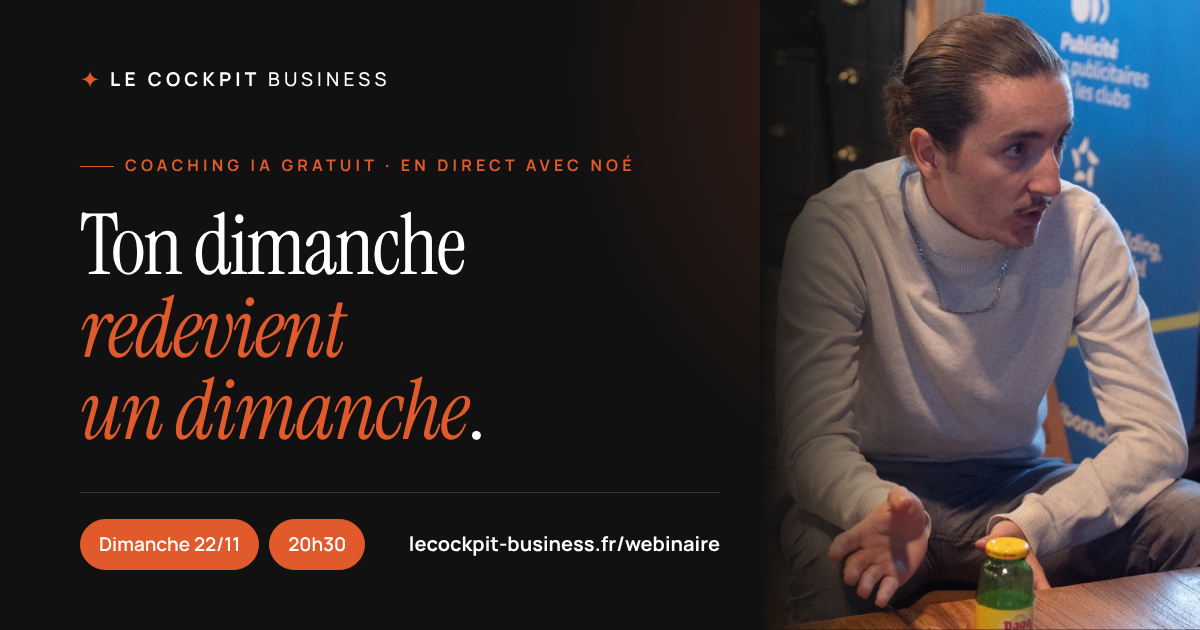
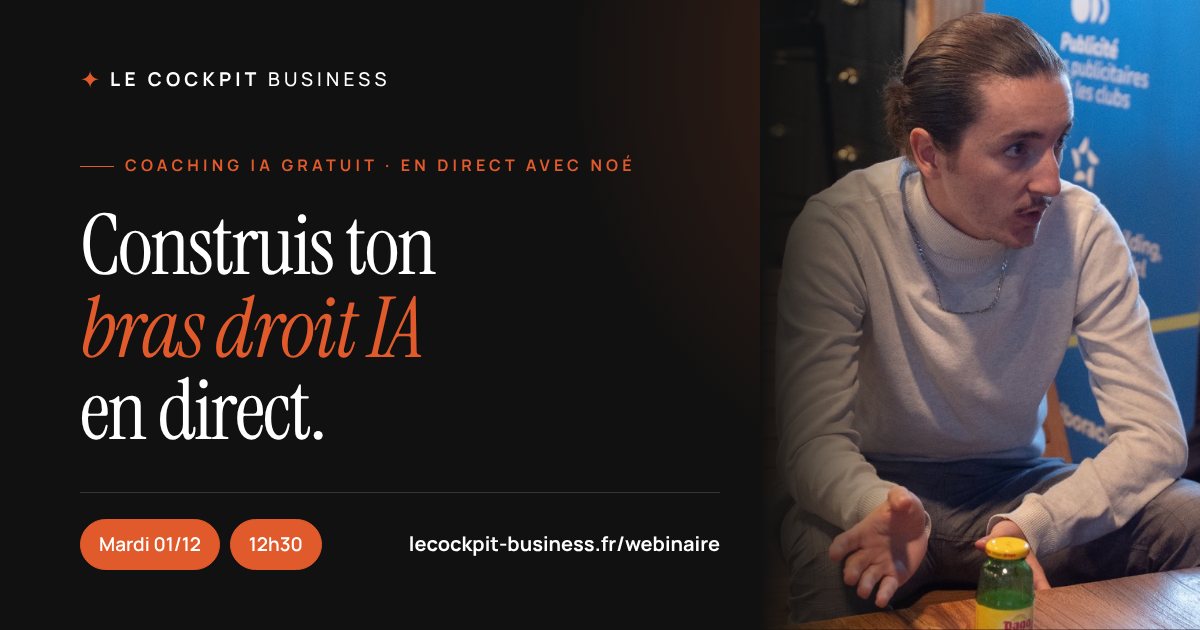
Page /webinaire : coaching « Comment construire ton bras droit IA » du mardi 01/12 12h30 (#12)
Claude-Session: https://claude.ai/code/session_0143ozB7tWALFU4F4GD4rqWe

Changed region(s): [[0.0617, 0.3317, 0.4008, 0.573], [0.0617, 0.6032, 0.4008, 0.7238], [0.0617, 0.8143, 0.3083, 0.9048]]

diff --git a/site/webinaire.html b/site/webinaire.html
@@ -3,8 +3,8 @@
 <head>
 <meta charset="utf-8">
 <meta name="viewport" content="width=device-width, initial-scale=1">
-<title>Ton dimanche redevient un dimanche · Coaching IA gratuit, dimanche 22 novembre à 20h30 · Le Cockpit Business</title>
-<meta name="description" content="Tu bosses le soir et le dimanche alors que tu paies l'IA pour gagner du temps ? Dimanche 22 novembre à 20h30, Noé te montre en direct comment construire ton bras droit IA et récupérer jusqu'à 14 h par semaine. Gratuit, 1 h, en ligne.">
+<title>Comment construire ton bras droit IA · Coaching IA gratuit, mardi 1er décembre à 12h30 · Le Cockpit Business</title>
+<meta name="description" content="Tu réexpliques ta boîte à l'IA tous les matins ? Mardi 1er décembre à 12h30, on construit ensemble ton bras droit IA dans Claude, en direct, pour récupérer jusqu'à 14 h par semaine. Gratuit, 1h30, en ligne.">
 <link rel="canonical" href="https://lecockpit-business.fr/webinaire">
 <link rel="icon" href="assets/favicon/favicon.ico" sizes="32x32">
 <link rel="icon" href="assets/favicon/favicon.svg" type="image/svg+xml">
@@ -15,15 +15,15 @@
 <meta property="og:type" content="website">
 <meta property="og:locale" content="fr_FR">
 <meta property="og:site_name" content="Le Cockpit Business">
-<meta property="og:title" content="Ton dimanche redevient un dimanche : coaching IA gratuit en direct">
-<meta property="og:description" content="Dimanche 22 novembre, 20h30, 1 h, en ligne et gratuit. Arrête de travailler pour l'IA : construis ton bras droit IA et récupère jusqu'à 14 h par semaine.">
+<meta property="og:title" content="Comment construire ton bras droit IA : coaching IA gratuit en direct">
+<meta property="og:description" content="Mardi 1er décembre, 12h30, 1h30, en ligne et gratuit. Arrête de parler à l'IA : construis ton bras droit IA dans Claude, en direct avec Noé.">
 <meta property="og:url" content="https://lecockpit-business.fr/webinaire">
 <meta name="twitter:card" content="summary_large_image">
-<meta property="og:image" content="https://lecockpit-business.fr/assets/og/webinaire.png?v=2211">
+<meta property="og:image" content="https://lecockpit-business.fr/assets/og/webinaire.png?v=0112">
 <meta property="og:image:width" content="1200">
 <meta property="og:image:height" content="630">
-<meta property="og:image:alt" content="Ton dimanche redevient un dimanche. Coaching IA en direct, dimanche 22 novembre à 20h30, avec Noé Porchier-Cizaire.">
-<meta name="twitter:image" content="https://lecockpit-business.fr/assets/og/webinaire.png?v=2211">
+<meta property="og:image:alt" content="Comment construire ton bras droit IA. Coaching IA en direct, mardi 1er décembre à 12h30, avec Noé Porchier-Cizaire.">
+<meta name="twitter:image" content="https://lecockpit-business.fr/assets/og/webinaire.png?v=0112">
 
 <link rel="preconnect" href="https://fonts.googleapis.com">
 <link rel="preconnect" href="https://fonts.gstatic.com" crossorigin>
@@ -58,9 +58,9 @@
      tant qu'il est vide, l'agenda indique qu'il arrive par email. */
   window.LIVE = {
     titre: 'Coaching IA en direct avec Noé · Le Cockpit Business',
-    debut: '2026-11-22T20:30:00+01:00',
-    dureeMinutes: 60,
-    meet: 'https://meet.google.com/mta-gbgk-eqa'
+    debut: '2026-12-01T12:30:00+01:00',
+    dureeMinutes: 90,
+    meet: 'https://meet.google.com/ycb-yjji-iyc'
   };
 </script>
 <!-- Meta Pixel Code -->
@@ -89,8 +89,10 @@ src="https://www.facebook.com/tr?id=2085006695554307&ev=PageView&noscript=1"
      bouton de réservation d'appel, pas de bulle WhatsApp avant l'inscription
      — chaque sortie est une inscription perdue.
 
-     SESSION EN COURS : coaching IA en direct du dimanche 22 novembre, 20h30
-     (1 h), annoncé à toute la base ActiveCampaign.
+     SESSION EN COURS : coaching IA en direct « Comment construire son bras droit
+     IA » du mardi 1er décembre, 12h30 (1h30), annoncé à toute la base
+     ActiveCampaign. Le live est un atelier : on construit le bras droit IA dans
+     Claude en direct (il connaît ta boîte / sait faire ta première tâche / agit seul).
      Page au TUTOIEMENT, alignée sur les mails : le dimanche et les soirées
      perdus (14 h/semaine = 630 h/an), le coupable caché (« tu travailles
      pour l'IA au lieu que l'IA travaille pour toi ») et le bras droit IA
@@ -116,17 +118,17 @@ src="https://www.facebook.com/tr?id=2085006695554307&ev=PageView&noscript=1"
   <div class="shell hero__inner optin__grid">
 
     <div class="optin__copy">
-      <p class="eyebrow">Coaching IA gratuit · en direct</p>
+      <p class="eyebrow">Coaching IA gratuit · en direct dans Claude</p>
 
-      <h1 class="h1">Ton dimanche <span class="italique">redevient un dimanche</span>.</h1>
+      <h1 class="h1">Comment construire ton <span class="italique">bras droit IA</span>.</h1>
 
-      <p class="optin__sub">Tu bosses le soir et le week-end, alors que tu paies l'IA pour gagner du temps. Le problème, c'est pas ton organisation&nbsp;: c'est que tu travailles pour l'IA, au lieu que l'IA travaille pour toi. Dimanche soir, je te montre en direct comment construire ton <b>bras droit IA</b> et récupérer jusqu'à 14&nbsp;h par semaine.</p>
+      <p class="optin__sub">Tu réexpliques ta boîte à l'IA tous les matins, tu corriges, tu recolles. Le problème, c'est pas tes prompts&nbsp;: on t'a appris à parler à l'IA, personne t'a appris à la construire. Mardi midi, on construit ensemble ton <b>bras droit IA</b> dans Claude, en direct, pour récupérer jusqu'à 14&nbsp;h par semaine. Tu repars avec.</p>
 
       <!-- La session. À mettre à jour à chaque live (et window.LIVE dans le <head>). -->
       <ul class="optin__meta" aria-label="La session">
-        <li><b>Dimanche 22 novembre</b></li>
-        <li><b>20h30</b></li>
-        <li>1 heure</li>
+        <li><b>Mardi 1er décembre</b></li>
+        <li><b>12h30</b></li>
+        <li>1h30</li>
         <li>En ligne, caméra facultative</li>
       </ul>
 
@@ -139,7 +141,7 @@ src="https://www.facebook.com/tr?id=2085006695554307&ev=PageView&noscript=1"
       <!-- Preuve : Nathan, le cas du mail du mardi (texte écrit par Noé). -->
       <figure class="reco">
         <blockquote class="reco__citation">
-          <p>80 heures par semaine, tous ses week-ends au bureau. Dès le premier mois avec son bras droit IA, Nathan a récupéré 16&nbsp;heures par semaine. Il a retrouvé son dimanche, et il va chercher son fils à l'école.</p>
+          <p>80 heures par semaine, tous ses week-ends au bureau. Dès le premier mois avec son bras droit IA, Nathan a récupéré 16&nbsp;heures par semaine. Il a retrouvé ses dimanches, et il va chercher son fils à l'école.</p>
         </blockquote>
         <figcaption class="reco__auteur">
           <span class="member__photo" data-initial="N"></span>
@@ -168,9 +170,9 @@ src="https://www.facebook.com/tr?id=2085006695554307&ev=PageView&noscript=1"
            à ActiveCampaign ; avec, script.js l'envoie sans quitter la page. -->
       <form class="optin__form card" action="https://prcz.activehosted.com/proc.php" method="post" data-optin="page" novalidate>
         <p class="optin__form-title">Réserve ta place</p>
-        <p class="optin__form-note">Gratuit, 1 heure, caméra facultative. Dis-moi ce qui te prend le plus de temps&nbsp;: les questions reçues avant le live passent en priorité.</p>
+        <p class="optin__form-note">Gratuit, 1h30, caméra facultative. Dis-moi quelle tâche te prend le plus de temps&nbsp;: c'est celle qu'on apprend en premier à ton bras droit IA.</p>
 
-        <!-- Formulaire ActiveCampaign n° 117 (tag à passer sur WEBI 22 NOV dans AC). Le code « or »
+        <!-- Formulaire ActiveCampaign n° 117 (tag à passer sur WEBI 1 DEC, id 94, dans AC). Le code « or »
              change à chaque enregistrement du formulaire dans ActiveCampaign :
              le relever dans Intégrer → Intégré pleinement. -->
         <input type="hidden" name="u" value="117">
@@ -196,12 +198,12 @@ src="https://www.facebook.com/tr?id=2085006695554307&ev=PageView&noscript=1"
         <div class="field">
           <label for="optin-question">Ta question pour Noé <span class="field__opt">facultatif</span></label>
           <!-- field[4] = champ « Question live » dans ActiveCampaign. -->
-          <textarea id="optin-question" name="field[4]" rows="3" maxlength="500" aria-describedby="optin-question-compte" placeholder="Ce qui te mange tes soirées, ce que tu as essayé…"></textarea>
+          <textarea id="optin-question" name="field[4]" rows="3" maxlength="500" aria-describedby="optin-question-compte" placeholder="La tâche qui te prend le plus de temps, ce que tu as essayé…"></textarea>
           <p class="field__compte" id="optin-question-compte" data-compteur><span>0</span>/500</p>
         </div>
 
         <button class="btn btn--primary optin__submit" type="submit">
-          <span>Je récupère mon dimanche</span>
+          <span>Je construis mon bras droit IA</span>
           <svg width="16" height="16" viewBox="0 0 24 24" fill="none" stroke="currentColor" stroke-width="2.4" stroke-linecap="round" stroke-linejoin="round" aria-hidden="true"><path d="M5 12h14"/><path d="m13 6 6 6-6 6"/></svg>
         </button>
 
@@ -214,12 +216,12 @@ src="https://www.facebook.com/tr?id=2085006695554307&ev=PageView&noscript=1"
            page est ouverte avec ?inscrit=1. -->
       <div class="optin__merci card" data-optin-merci="page" tabindex="-1" hidden>
         <p class="optin__merci-mark" aria-hidden="true">✦</p>
-        <p class="optin__form-title">C'est noté, à dimanche 20h30.</p>
+        <p class="optin__form-title">C'est noté, à mardi 12h30.</p>
         <p class="optin__merci-text">Ta place est réservée. La confirmation arrive par email&nbsp;: regarde dans les promotions si tu ne la vois pas.</p>
         <p class="optin__merci-text" data-merci-sans-question hidden>Pas encore envoyé ta question&nbsp;? Réponds simplement au mail de confirmation.</p>
         <div class="optin__merci-actions">
           <a class="btn btn--primary" href="#" target="_blank" rel="noopener noreferrer" data-agenda="google">Ajouter à mon agenda</a>
-          <a class="optin__merci-ics" href="#" download="coaching-ia-22-novembre.ics" data-agenda="ics">ou télécharger le fichier .ics (Apple, Outlook)</a>
+          <a class="optin__merci-ics" href="#" download="coaching-ia-1er-decembre.ics" data-agenda="ics">ou télécharger le fichier .ics (Apple, Outlook)</a>
           <a class="btn btn--primary" href="https://chat.whatsapp.com/LZnoVTxZ6L6Dxyl7SH1f3x" target="_blank" rel="noopener noreferrer">Rejoindre le groupe WhatsApp</a>
         </div>
       </div>
@@ -343,12 +345,12 @@ src="https://www.facebook.com/tr?id=2085006695554307&ev=PageView&noscript=1"
 <section class="section">
   <div class="shell livefor">
     <div class="section__head reveal">
-      <p class="eyebrow">Dimanche dernier, 18h</p>
-      <h2 class="h2">Tu étais sur ton ordi, <span class="italique">pas avec eux</span>.</h2>
+      <p class="eyebrow">Ce matin, 9h</p>
+      <h2 class="h2">T'as encore réexpliqué ta boîte <span class="italique">à une IA</span>.</h2>
     </div>
     <ul class="livefor__list reveal">
-      <li>Tu finis un devis, tu réponds aux mails de la semaine, tu relances deux clients. «&nbsp;J'arrive, je finis un truc.&nbsp;» Et tu ne les rejoins jamais.</li>
-      <li>Même ordi fermé, t'es déjà au lendemain. Ta famille ne dit rien, mais elle le voit.</li>
+      <li>«&nbsp;Je suis consultant, mes clients sont des PME, écris-moi une relance…&nbsp;» Elle te sort un texte générique. Tu corriges, tu recolles. Demain, tu recommences depuis zéro.</li>
+      <li>Les devis, les mails, les relances, les comptes-rendus&nbsp;: tout passe encore par toi, parce que t'es le seul à savoir comment ta boîte tourne.</li>
       <li>Tu te lèves plus tôt, tu bloques des créneaux, tu as pris ChatGPT à 20&nbsp;€ par mois. Résultat&nbsp;: plus fatigué, et toujours en retard.</li>
       <li>14 heures perdues par semaine, c'est 630 heures par an. Presque 4 mois de ta vie, chaque année.</li>
     </ul>
@@ -587,29 +589,29 @@ src="https://www.facebook.com/tr?id=2085006695554307&ev=PageView&noscript=1"
   <div class="shell">
     <div class="section__head reveal">
       <p class="eyebrow">Au programme</p>
-      <h2 class="h2">Une heure, dimanche soir.</h2>
+      <h2 class="h2">Une heure et demie, mardi midi. <span class="italique">On construit.</span></h2>
     </div>
 
     <ol class="livesteps">
       <li class="livestep card reveal">
         <span class="livestep__num" aria-hidden="true">1</span>
-        <h3 class="h3">Combien d'heures tu perds</h3>
-        <p>Un audit de 5 minutes, à coller dans ton IA dès le début du live.</p>
+        <h3 class="h3">Il apprend ta boîte</h3>
+        <p>Tes offres, tes clients, ta façon d'écrire&nbsp;: on lui donne tout ça une fois pour toutes, dans Claude.</p>
       </li>
       <li class="livestep card reveal">
         <span class="livestep__num" aria-hidden="true">2</span>
-        <h3 class="h3">Le bras droit IA, en vrai</h3>
-        <p>Je te montre concrètement comment il marche, écran partagé.</p>
+        <h3 class="h3">Il apprend ta première tâche</h3>
+        <p>Celle qui te prend le plus de temps chaque semaine. Tu la lui montres, il la refait à ta manière.</p>
       </li>
       <li class="livestep card reveal">
         <span class="livestep__num" aria-hidden="true">3</span>
-        <h3 class="h3">Toutes tes questions</h3>
-        <p>Sans filtre, même celles que tu n'as jamais osé poser.</p>
+        <h3 class="h3">Il agit tout seul</h3>
+        <p>Je te montre mon propre bras droit IA, branché sur mes mails, mon agenda et ma prospection, écran partagé.</p>
       </li>
       <li class="livestep card reveal">
         <span class="livestep__num" aria-hidden="true">4</span>
-        <h3 class="h3">Ta première étape</h3>
-        <p>Ce que tu peux lancer dès lundi matin.</p>
+        <h3 class="h3">Toutes tes questions</h3>
+        <p>Sans filtre, et tu repars avec ton bras droit IA, pas avec des notes.</p>
       </li>
     </ol>
   </div>
@@ -646,7 +648,7 @@ src="https://www.facebook.com/tr?id=2085006695554307&ev=PageView&noscript=1"
     <div class="livehost__body">
       <p class="eyebrow">Qui anime</p>
       <h2 class="h2">Noé Porchier-Cizaire</h2>
-      <p class="p">J'ai été exactement comme toi&nbsp;: les soirées et les dimanches sur l'ordi. Je dirige PRCZ, une agence de stratégie IA pour PME, et j'ai accompagné plus de 85 entrepreneurs avec la méthode CAP. Dimanche, je te montre ce que j'applique à ma propre activité, et je réponds à tes questions.</p>
+      <p class="p">J'ai été exactement comme toi&nbsp;: les soirées et les dimanches sur l'ordi. Je dirige PRCZ, une agence de stratégie IA pour PME, et j'ai accompagné plus de 85 entrepreneurs avec la méthode CAP. Mardi, on construit ton bras droit IA ensemble, je te montre le mien, et je réponds à tes questions.</p>
     </div>
   </div>
 </section>
@@ -657,14 +659,14 @@ src="https://www.facebook.com/tr?id=2085006695554307&ev=PageView&noscript=1"
      ====================================================================== -->
 <section class="section final optin__rappel">
   <div class="shell livefinal reveal">
-    <h2 class="h2">Une heure pour <span class="italique">récupérer tes dimanches</span>.</h2>
+    <h2 class="h2">Une pause déj pour <span class="italique">construire ton bras droit IA</span>.</h2>
     <a class="btn btn--primary" href="#inscription">
-      <span>Je récupère mon dimanche</span>
+      <span>Je construis mon bras droit IA</span>
       <svg width="16" height="16" viewBox="0 0 24 24" fill="none" stroke="currentColor" stroke-width="2.4" stroke-linecap="round" stroke-linejoin="round" aria-hidden="true"><path d="M5 12h14"/><path d="m13 6 6 6-6 6"/></svg>
     </a>
     <ul class="microline">
       <li>gratuit</li>
-      <li>dimanche 22/11, 20h30</li>
+      <li>mardi 01/12, 12h30</li>
       <li>caméra facultative</li>
     </ul>
   </div>
@@ -705,9 +707,9 @@ src="https://www.facebook.com/tr?id=2085006695554307&ev=PageView&noscript=1"
 
   <form class="optin__form card" action="https://prcz.activehosted.com/proc.php" method="post" data-optin="pop" novalidate>
       <p class="optin__form-title" id="pop-titre">Réserve ta place</p>
-      <p class="optin__form-note">Gratuit, 1 heure, caméra facultative. Dis-moi ce qui te prend le plus de temps&nbsp;: les questions reçues avant le live passent en priorité.</p>
+      <p class="optin__form-note">Gratuit, 1h30, caméra facultative. Dis-moi quelle tâche te prend le plus de temps&nbsp;: c'est celle qu'on apprend en premier à ton bras droit IA.</p>
 
-      <!-- Formulaire ActiveCampaign n° 117 (tag à passer sur WEBI 22 NOV dans AC). Le code « or »
+      <!-- Formulaire ActiveCampaign n° 117 (tag à passer sur WEBI 1 DEC, id 94, dans AC). Le code « or »
            change à chaque enregistrement du formulaire dans ActiveCampaign :
            le relever dans Intégrer → Intégré pleinement. -->
       <input type="hidden" name="u" value="117">
@@ -733,12 +735,12 @@ src="https://www.facebook.com/tr?id=2085006695554307&ev=PageView&noscript=1"
       <div class="field">
         <label for="pop-question">Ta question pour Noé <span class="field__opt">facultatif</span></label>
         <!-- field[4] = champ « Question live » dans ActiveCampaign. -->
-        <textarea id="pop-question" name="field[4]" rows="3" maxlength="500" aria-describedby="pop-question-compte" placeholder="Ce qui te mange tes soirées, ce que tu as essayé…"></textarea>
+        <textarea id="pop-question" name="field[4]" rows="3" maxlength="500" aria-describedby="pop-question-compte" placeholder="La tâche qui te prend le plus de temps, ce que tu as essayé…"></textarea>
         <p class="field__compte" id="pop-question-compte" data-compteur><span>0</span>/500</p>
       </div>
 
       <button class="btn btn--primary optin__submit" type="submit">
-        <span>Je récupère mon dimanche</span>
+        <span>Je construis mon bras droit IA</span>
         <svg width="16" height="16" viewBox="0 0 24 24" fill="none" stroke="currentColor" stroke-width="2.4" stroke-linecap="round" stroke-linejoin="round" aria-hidden="true"><path d="M5 12h14"/><path d="m13 6 6 6-6 6"/></svg>
       </button>
 
@@ -749,12 +751,12 @@ src="https://www.facebook.com/tr?id=2085006695554307&ev=PageView&noscript=1"
 
   <div class="optin__merci card" data-optin-merci="pop" tabindex="-1" hidden>
       <p class="optin__merci-mark" aria-hidden="true">✦</p>
-      <p class="optin__form-title">C'est noté, à dimanche 20h30.</p>
+      <p class="optin__form-title">C'est noté, à mardi 12h30.</p>
       <p class="optin__merci-text">Ta place est réservée. La confirmation arrive par email&nbsp;: regarde dans les promotions si tu ne la vois pas.</p>
       <p class="optin__merci-text" data-merci-sans-question hidden>Pas encore envoyé ta question&nbsp;? Réponds simplement au mail de confirmation.</p>
       <div class="optin__merci-actions">
         <a class="btn btn--primary" href="#" target="_blank" rel="noopener noreferrer" data-agenda="google">Ajouter à mon agenda</a>
-        <a class="optin__merci-ics" href="#" download="coaching-ia-22-novembre.ics" data-agenda="ics">ou télécharger le fichier .ics (Apple, Outlook)</a>
+        <a class="optin__merci-ics" href="#" download="coaching-ia-1er-decembre.ics" data-agenda="ics">ou télécharger le fichier .ics (Apple, Outlook)</a>
         <a class="btn btn--primary" href="https://chat.whatsapp.com/LZnoVTxZ6L6Dxyl7SH1f3x" target="_blank" rel="noopener noreferrer">Rejoindre le groupe WhatsApp</a>
       </div>
     </div>

diff --git a/og/webinaire.html b/og/webinaire.html
@@ -37,10 +37,10 @@
   <span class="brand"><span class="brand__mark">✦</span><span class="brand__name">Le Cockpit <span>Business</span></span></span>
   <div class="carte__corps">
     <p class="eyebrow">Coaching IA gratuit · en direct avec Noé</p>
-    <h1 class="carte__titre" style="font-size:84px">Ton dimanche<br><span class="italique">redevient<br>un dimanche</span>.</h1>
+    <h1 class="carte__titre" style="font-size:84px">Construis ton<br><span class="italique">bras droit IA</span><br>en direct.</h1>
   </div>
   <div class="carte__pied">
-    <div class="pastilles"><span>Dimanche 22/11</span><span>20h30</span></div>
+    <div class="pastilles"><span>Mardi 01/12</span><span>12h30</span></div>
     <b>lecockpit-business.fr/webinaire</b>
   </div>
 </div>
